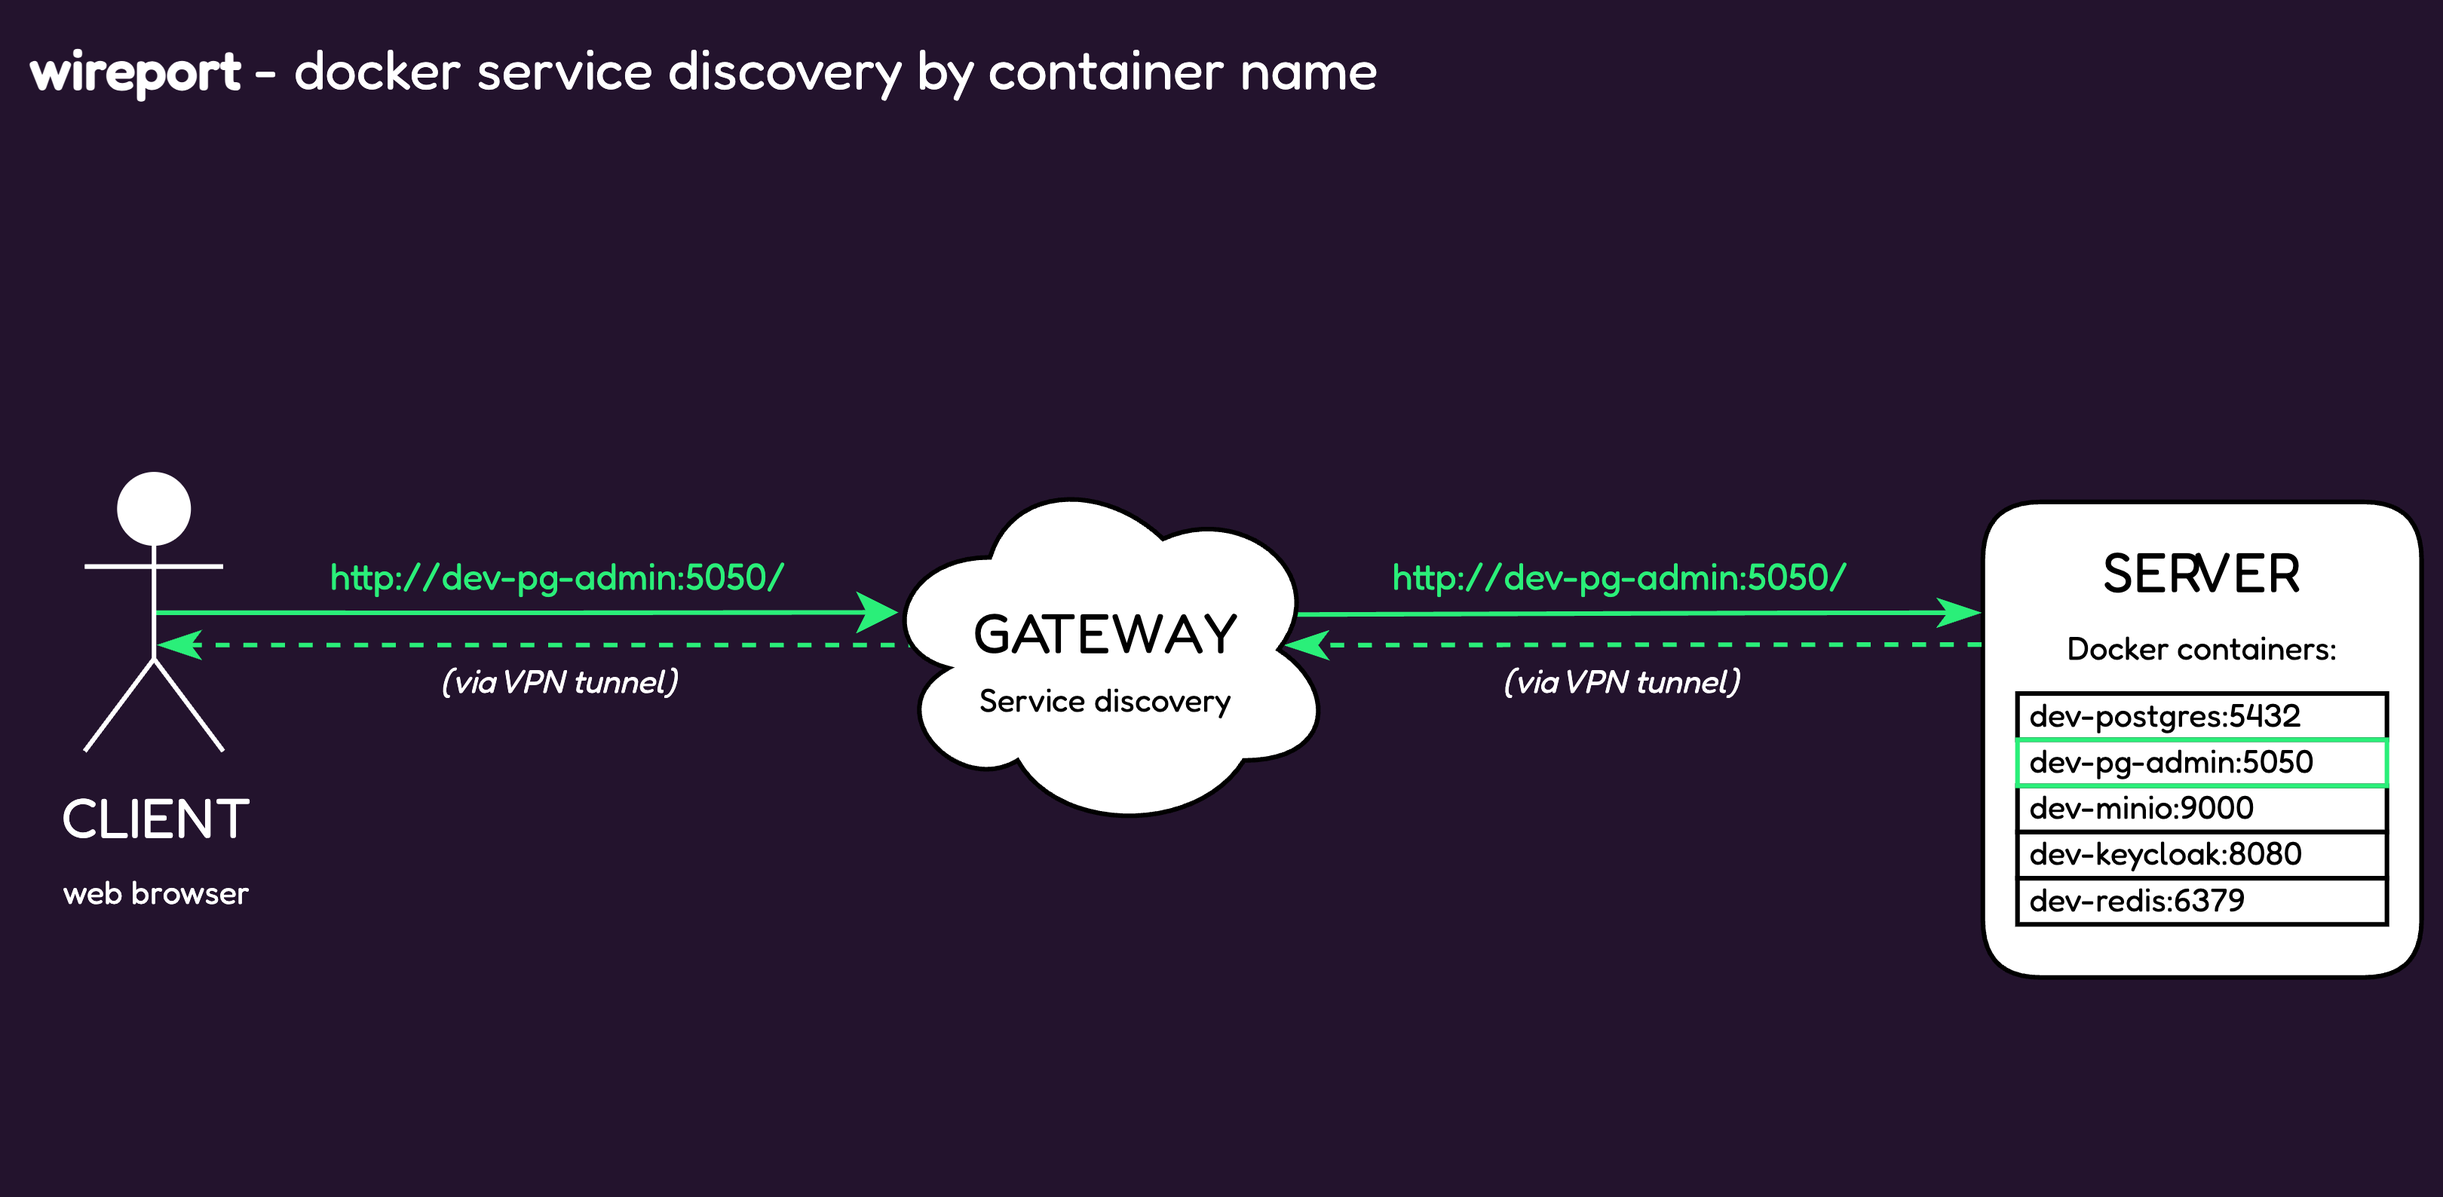
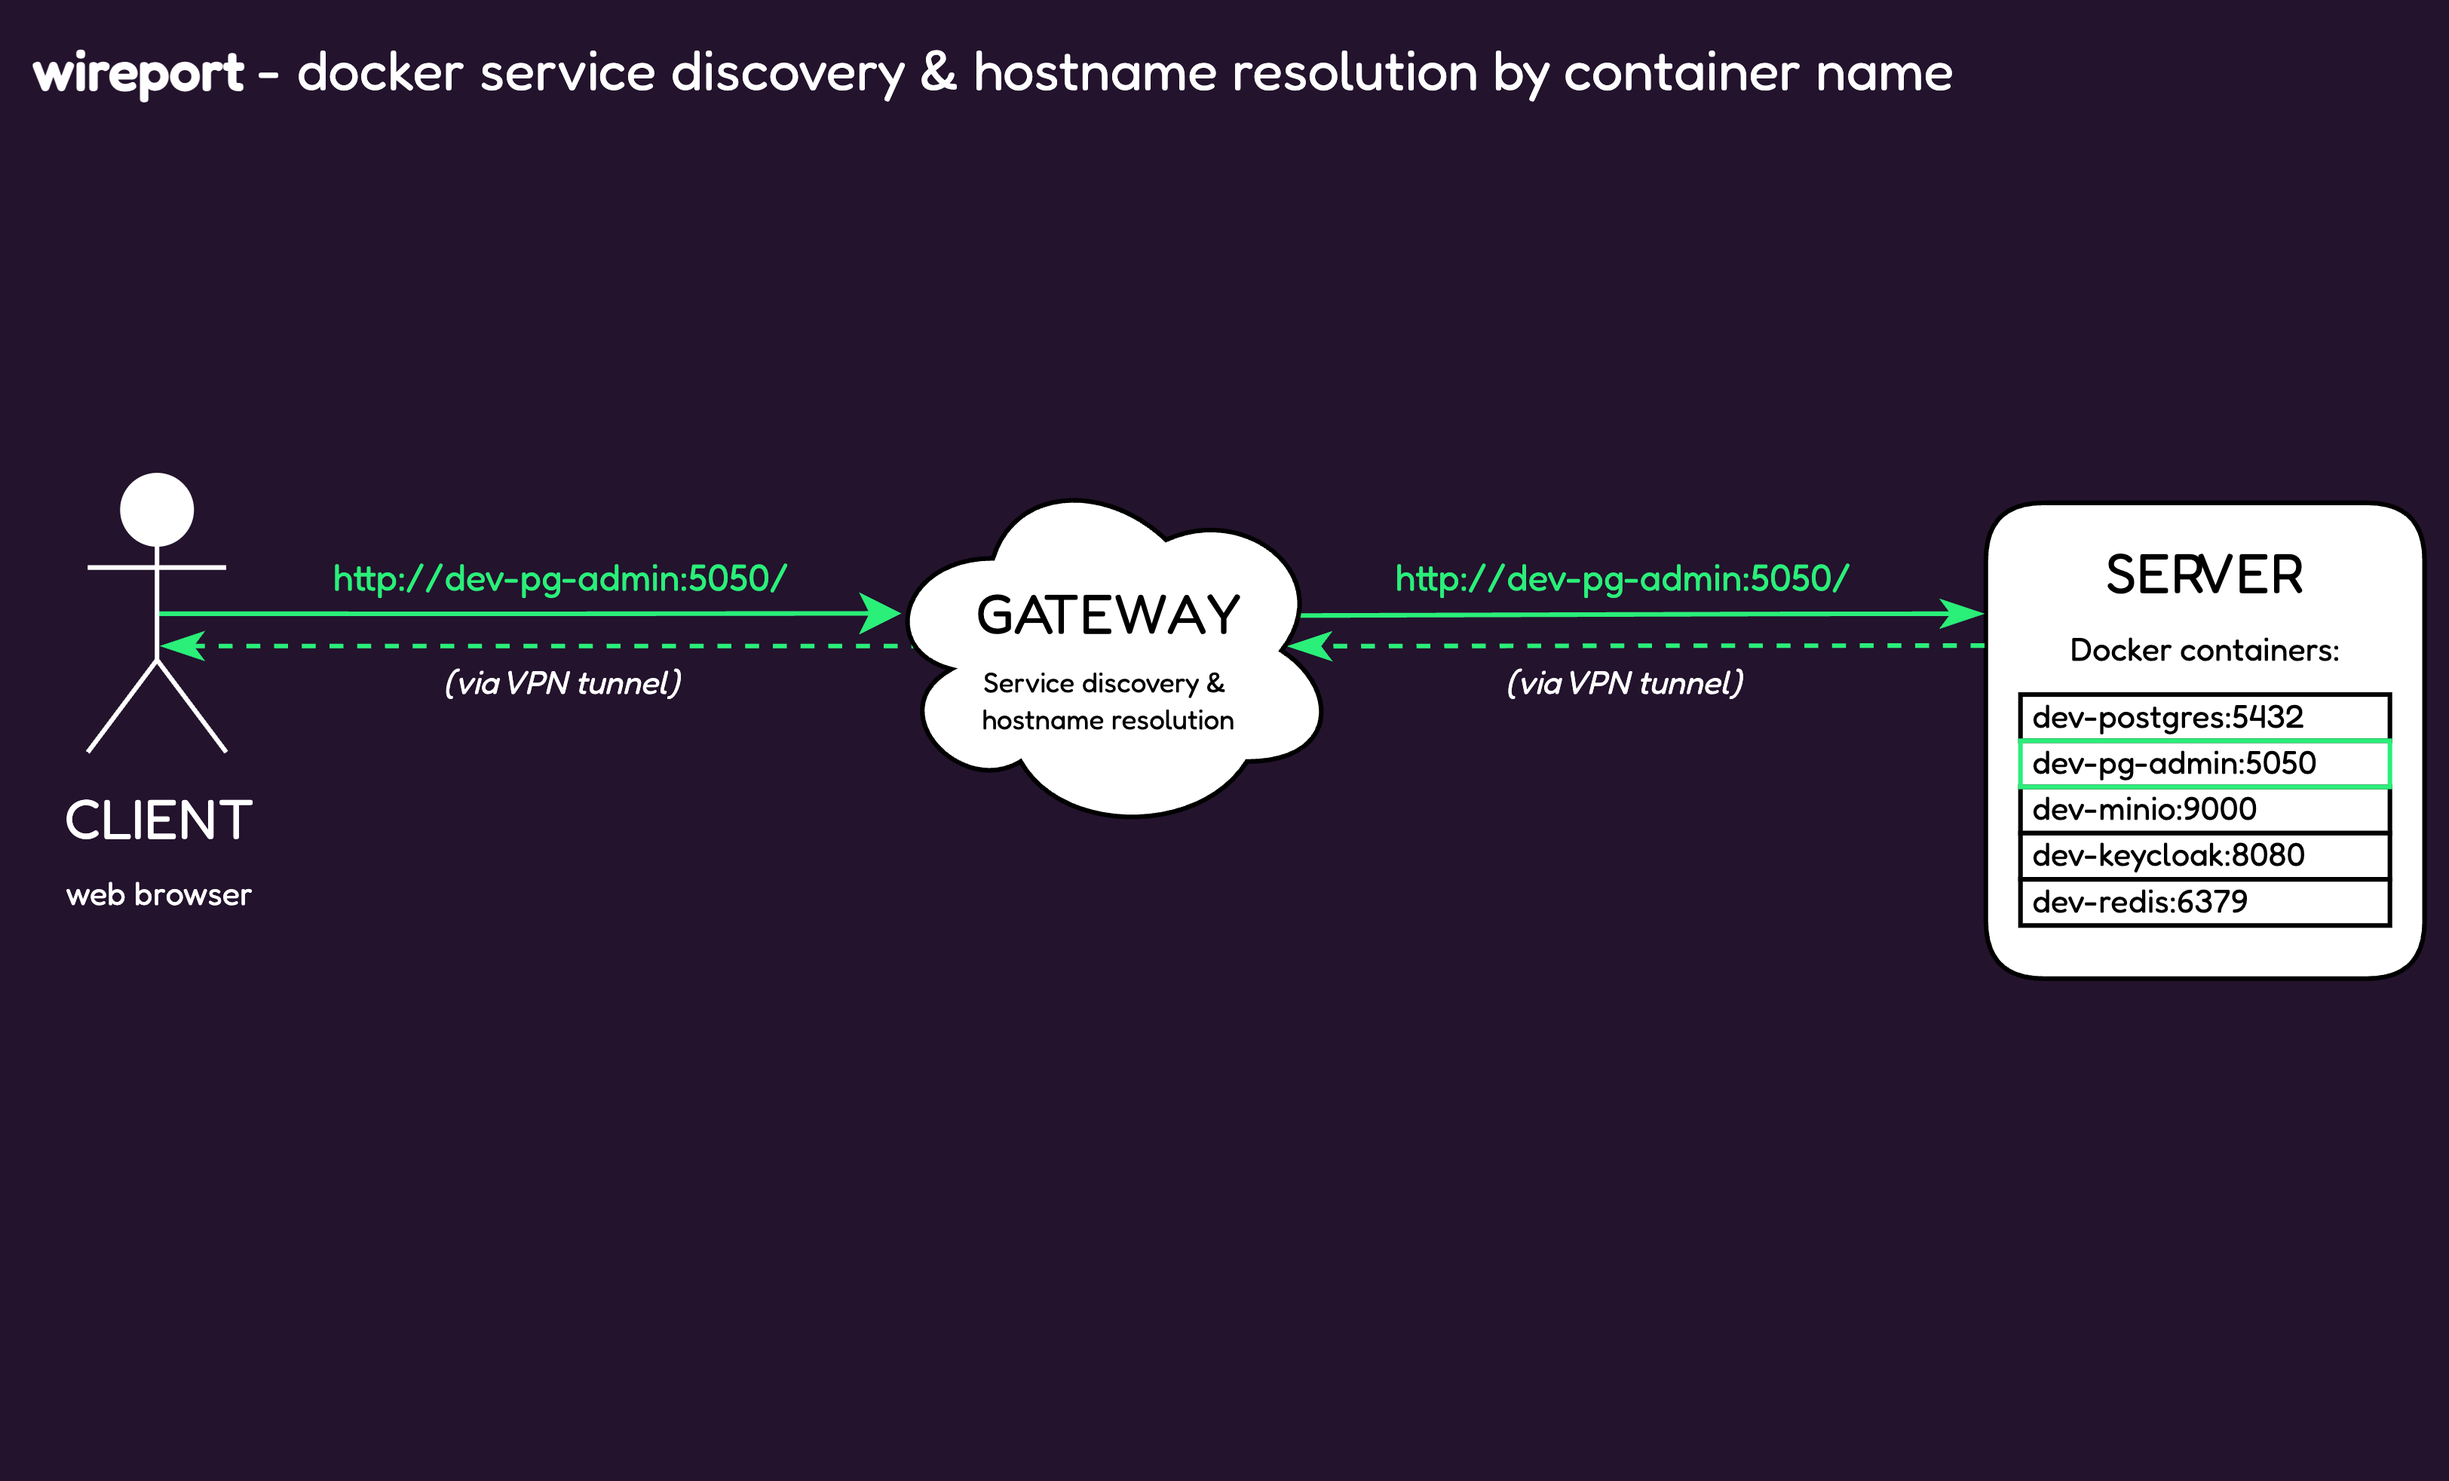
doc: improved formulation & image updated

diff --git a/README.md b/README.md
@@ -47,6 +47,7 @@
 - **Multiplatform CLI** (Linux, macOS, Windows — ARM64 & AMD64) for [**quick and easy setup**](#quick-start)
 - **Self-hosted** and **open-source**
 - **High performance** with a **low memory footprint**
+- **No need to manually edit countless configuration files**: [quick and easy start](#quick-start) from the command line in just **two commands**
 
 ## Key Concepts
 
@@ -58,9 +59,9 @@
 |:--:|
 | *waygate - ingress proxy and VPN tunnel* |
 
-| ![waygate - docker service discovery by container name](assets/waygate-docker-service-discovery.png) |
+| ![waygate - docker service discovery & hostname resolution by container name](assets/waygate-docker-service-discovery.png) |
 |:--:|
-| *waygate - docker service discovery by container name* |
+| *waygate - docker service discovery & hostname resolution by container name* |
 
 ## Installation
 
